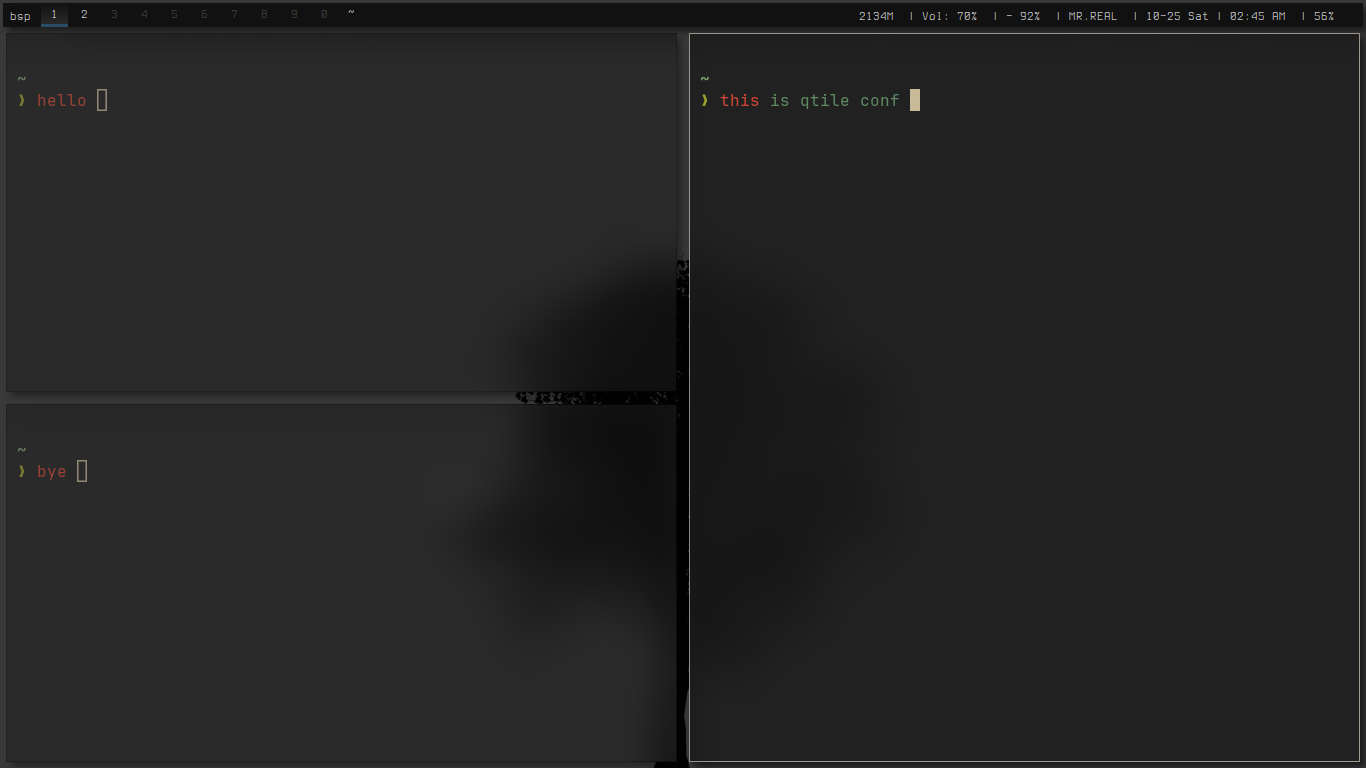
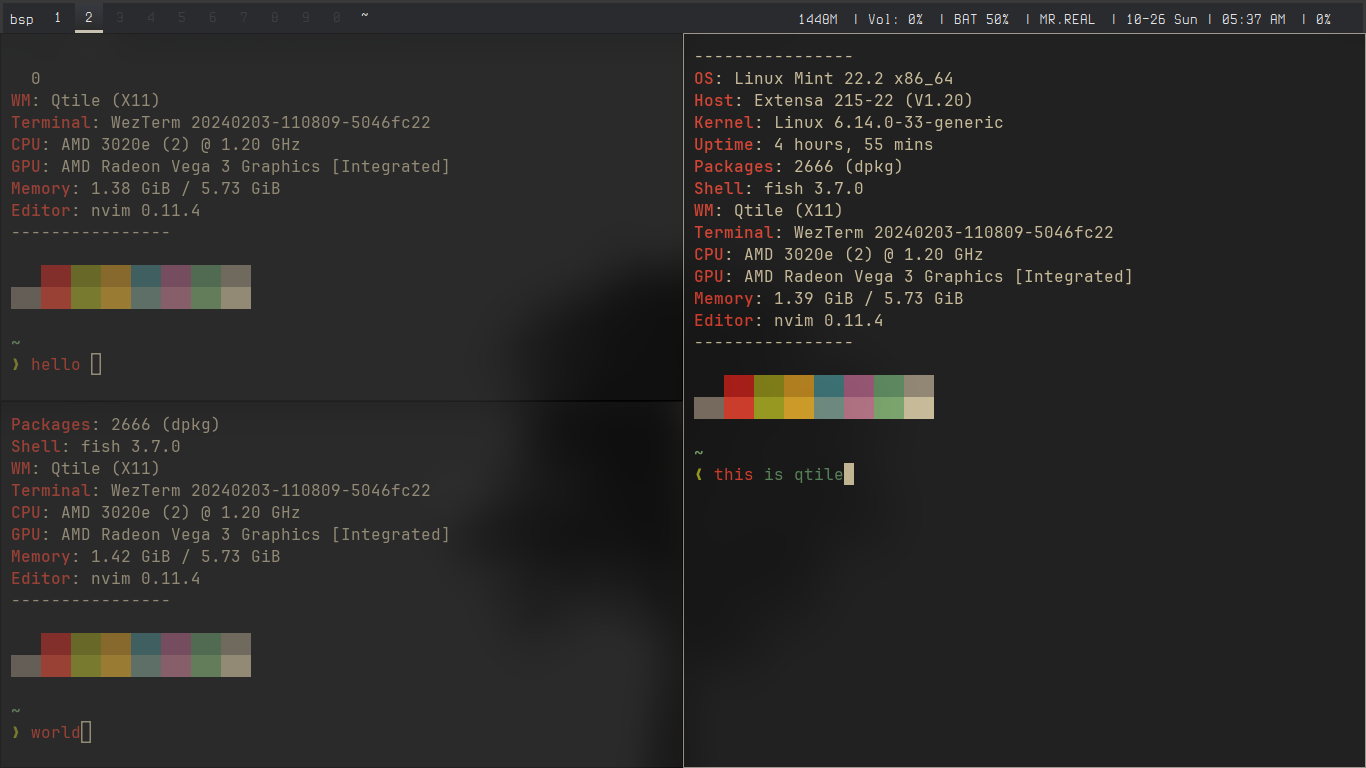
added more pic and updated conf

diff --git a/qtile/config.py b/qtile/config.py
@@ -11,7 +11,7 @@ from libqtile.lazy import lazy
 from libqtile.utils import guess_terminal
 
 mod = "mod4"
-mod_alt = "mod1"  # Alt
+alt = "mod1"  # Alt
 terminal = guess_terminal()
 
 keys = [
@@ -73,12 +73,18 @@ keys = [
     Key([mod, "control"], "q", lazy.shutdown(), desc="Shutdown Qtile"),
     Key([mod], "r", lazy.spawncmd(), desc="Spawn a command using a prompt widget"),
     # My Keybinds | hello pradeep
+    Key(
+        [alt],
+        "space",
+        lazy.spawn("/home/hellopradeep/.local/bin/internetq.sh"),
+        desc="Internet qtile",
+    ),
     Key([mod], "p", lazy.hide_show_bar("top"), desc="Toggle top bar"),
     Key([mod], "q", lazy.window.kill(), desc="Kill focused window"),
     Key([mod], "Return", lazy.spawn("wezterm"), desc="Launch terminal"),
     Key([mod], "b", lazy.spawn("zen"), desc="Launch browser"),
-    Key([mod_alt], "h", lazy.screen.prev_group(), desc="Switch to previous workspace"),
-    Key([mod_alt], "l", lazy.screen.next_group(), desc="Switch to next workspace"),
+    Key([alt], "h", lazy.screen.prev_group(), desc="Switch to previous workspace"),
+    Key([alt], "l", lazy.screen.next_group(), desc="Switch to next workspace"),
     Key(
         ["control"],
         "space",
@@ -123,7 +129,7 @@ keys = [
         desc="Mute/unmute",
     ),
     Key(
-        [mod_alt],
+        [alt],
         "Return",
         lazy.window.toggle_fullscreen(),
         desc="Toggle fullscreen",
@@ -161,15 +167,22 @@ for vt in range(1, 8):
 # My Groups
 groups = [
     Group("1"),
-    Group("2", matches=[Match(wm_class="zen")], spawn="zen"),
-    Group("3"),
+    Group("2", matches=[Match(wm_class="zen")]),
+    Group("3", matches=[Match(wm_class="nemo")]),
     Group("4"),
     Group("5"),
     Group("6"),
     Group("7"),
     Group("8"),
     Group("9"),
-    Group("0", matches=[Match(wm_class="Telegram")]),
+    Group(
+        "0",
+        layout="treetab",
+        matches=[
+            Match(wm_class="Telegram"),
+            Match(wm_class="cinnamon-settings network"),
+        ],
+    ),
 ]
 
 for i in groups:
@@ -207,31 +220,40 @@ layout_value = {
 layout_value1 = {
     "border_focus": "#d9d0c0",  # Focused window border color
     "border_normal": "#010000",  # Unfocused window border color
-    "border_on_single": True,  # Show border even for single window
+    "border_on_single": False,  # Show border even for single window
     "border_width": 1,  # Border thickness
 }
 
+tree_value = {
+    "active_bg": "#2B2826",
+    "inactive_bg": "#000000",
+    "active_fg": "#ffffff",
+    "font": "Terminess Nerd Font Mono",
+    "panel_width": 150,
+}
+
 layouts = [
-    layout.Bsp(**layout_value),
-    layout.Columns(**layout_value),
-    layout.TreeTab(**layout_value1),
+    layout.Bsp(**layout_value1),  # bspwm alike
+    layout.Plasma(**layout_value1),
+    layout.RatioTile(**layout_value1),  # mmm i kinda like it
+    layout.TreeTab(**tree_value),
     # Try more layouts by unleashing below layouts.
-    # layout.Stack(num_stacks=2, **layout_value1),
-    # layout.Max(),
-    # layout.Matrix(**layout_value1),
-    # layout.MonadTall(**layout_value1),
-    # layout.MonadWide(**layout_value1),
-    # layout.RatioTile(**layout_value1),
-    # layout.Tile(**layout_value1),
-    # layout.VerticalTile(**layout_value1),
-    # layout.Zoomy(**layout_value1),
+    # layout.Columns(**layout_value),
+    # layout.Zoomy(**layout_value1), # tree but with lil preview
+    # layout.Tile(**layout_value1),  # it push focus to side
+    # layout.MonadTall(**layout_value1),  # arrange in same format even tho focus on win
+    # layout.MonadWide(**layout_value1),  # same as tall but wide
+    # layout.Matrix(**layout_value1),  # good for show off
+    # layout.VerticalTile(**layout_value1), # absolute stupid
+    # layout.Max(),  # no
+    # layout.Stack(num_stacks=2, **layout_value1),  # not best
 ]
 
 widget_defaults = dict(
     # font="Iosevka Nerd Font",
     font="Terminess Nerd Font Mono",
     # font="JetBrainsMono Nerd Font",
-    fontsize=13,
+    fontsize=15,
     padding=7,
 )
 extension_defaults = widget_defaults.copy()
@@ -244,20 +266,22 @@ screens = [
                 widget.CurrentLayout(),
                 widget.GroupBox(
                     highlight_method="line",
+                    highlight_color=["#373B41", "#282828"],
+                    this_current_screen_border="#d9d0c0",
                 ),
                 widget.Prompt(),
                 widget.WindowName(
                     format="{name}",
                     max_chars=40,
+                    empty_group_string=" hellopradeep",
                 ),
-                # widget.Wallpaper(directory="~/Pictures/Wallpapers/"),
                 widget.Memory(format="{MemUsed: .0f}{mm}"),
                 widget.PulseVolume(
                     fmt="| Vol: {}",
                 ),
                 widget.Battery(
-                    charge_char="@",
-                    discharge_char="-",
+                    charge_char="CHA",
+                    discharge_char="BAT",
                     format="| {char} {percent:2.0%}",
                     charge_controller=lambda: (0, 80),
                     update_interval=15,
@@ -265,6 +289,7 @@ screens = [
                 widget.Wlan(
                     format="| {essid}",
                     interface="wlp2s0",
+                    disconnected_message="| Disconnected",
                 ),
                 widget.Clock(format="| %m-%d %a | %I:%M %p"),
                 widget.Backlight(
@@ -272,18 +297,27 @@ screens = [
                     step=5,
                     format="| {percent:2.0%}   ",
                 ),
-                # widget.QuickExit(),
             ],
-            24,
-            opacity=0.7,
+            30,
+            opacity=0.9,
+            background="#282A2E",
+            # background="#393939",
             # margin=[5, 5, 0, 5],
             margin=[3, 3, 0, 3],
-            # border_width=[2, 2, 2, 2],  # Draw top and bottom borders
-            # border_color=[ "ff00ff", "000000", "ff00ff", "000000", ],  # Borders are magenta
+            name="hello_bar",
         ),
-        # background="#000000",
-        background="#00000040",
-        # wallpaper=logo,
+        # left=bar.Bar(
+        #     [
+        #         widget.Spacer(background="#393939"),
+        #         widget.VerticalClock(fontsize=20),
+        #         widget.Spacer(background="#393939"),
+        #     ],
+        #     30,  # width
+        #     opacity=0.5,
+        #     background="#393939",
+        #     margin=[3, 3, 3, 3],
+        # ),
+        background="#000000",
         wallpaper="~/Pictures/Wallpapers/tree.png",
         wallpaper_mode="stretch",
         # You can uncomment this variable if you see that on X11 floating resize/moving is laggy
@@ -332,7 +366,7 @@ floating_layout = layout.Floating(
     ],
 )
 auto_fullscreen = True
-focus_on_window_activation = "smart"
+focus_on_window_activation = "focus"
 focus_previous_on_window_remove = False
 reconfigure_screens = True
 
@@ -371,10 +405,9 @@ def move_to_group(window):
     wm_class = window.window.get_wm_class()
     if wm_class and "Telegram" in wm_class:
         window.togroup("0")
-        window.qtile.groups_map["0"].cmd_toscreen()
-    elif wm_class and "org.wezfurlong.wezterm" in wm_class:
-        window.togroup("1")
-        window.qtile.groups_map["1"].cmd_toscreen()
     elif wm_class and "vlc" in wm_class:
+        window.togroup("3")
+        window.qtile.groups_map["3"].cmd_toscreen()
+    elif wm_class and "nemo" in wm_class:
         window.togroup("3")
         window.qtile.groups_map["3"].cmd_toscreen()

diff --git a/README.md b/README.md
@@ -39,6 +39,8 @@ chmod +x setup.sh
 
 ![Qtile-tile](Assets/asset2.png)
 
+![Hello World](Assets/asset3.png)
+
 #### More config
 
 - [ Bspwm config ](https://github.com/hellopradeep69/bspwm-config.git)
